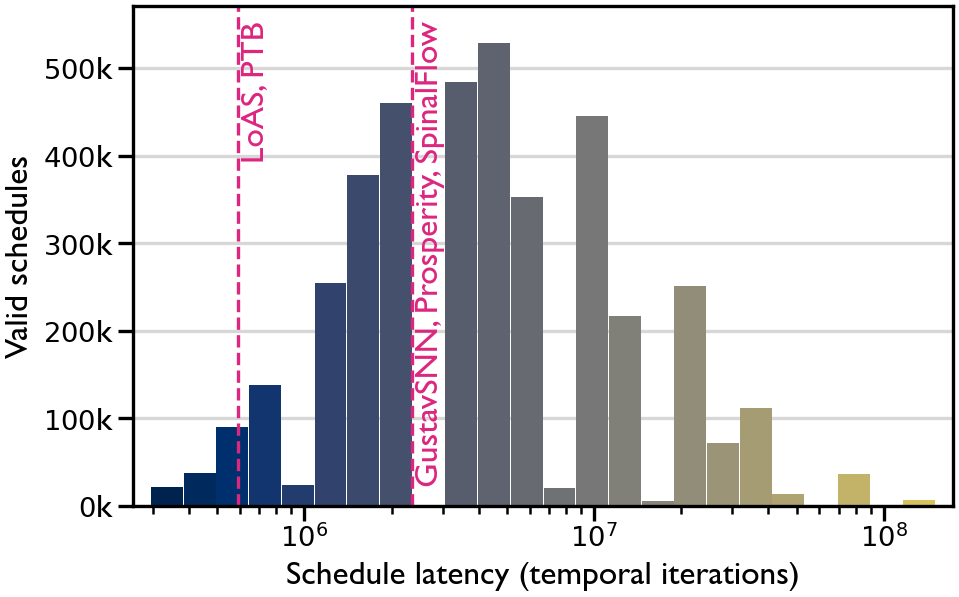
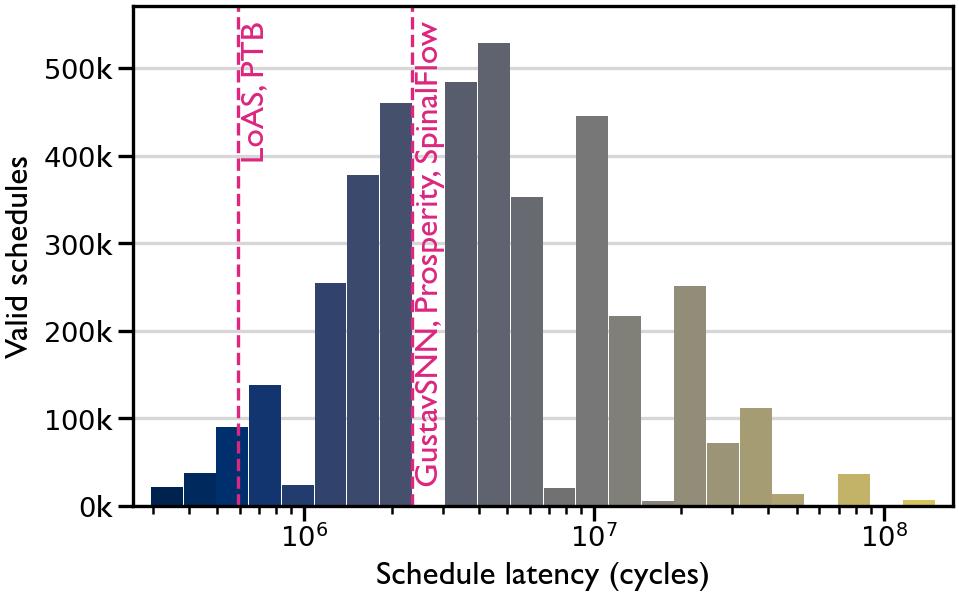
fig3_design_space: x-axis label unit from temporal iterations to cycles

Changed region(s): [[0.3024, 0.9347, 0.8467, 0.995]]

diff --git a/zoo/fig3_design_space/plot.py b/zoo/fig3_design_space/plot.py
@@ -168,7 +168,7 @@ def main() -> int:
 
     ax.set_xlim(edges[0] / 1.15, edges[-1] * 1.15)
     ax.set_ylim(0, ymax)
-    ax.set_xlabel("Schedule latency (temporal iterations)", labelpad=2)
+    ax.set_xlabel("Schedule latency (cycles)", labelpad=2)
     ax.set_ylabel("Valid schedules", labelpad=2)
     ax.yaxis.set_major_formatter(FuncFormatter(lambda v, _: f"${v / 1e3:g}$k"))
     ax.xaxis.set_major_formatter(
